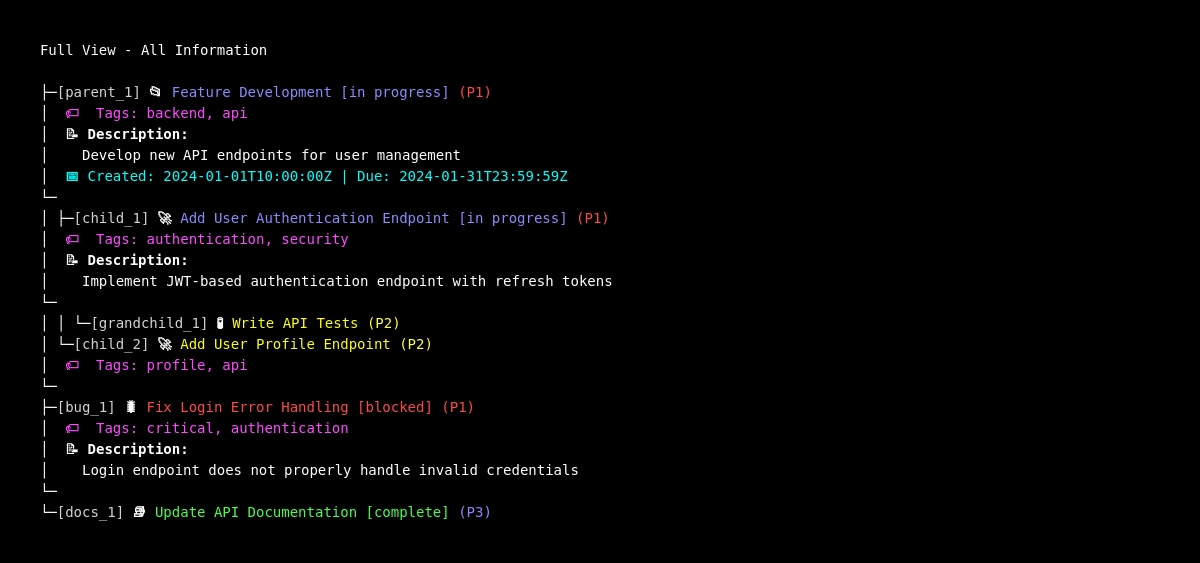
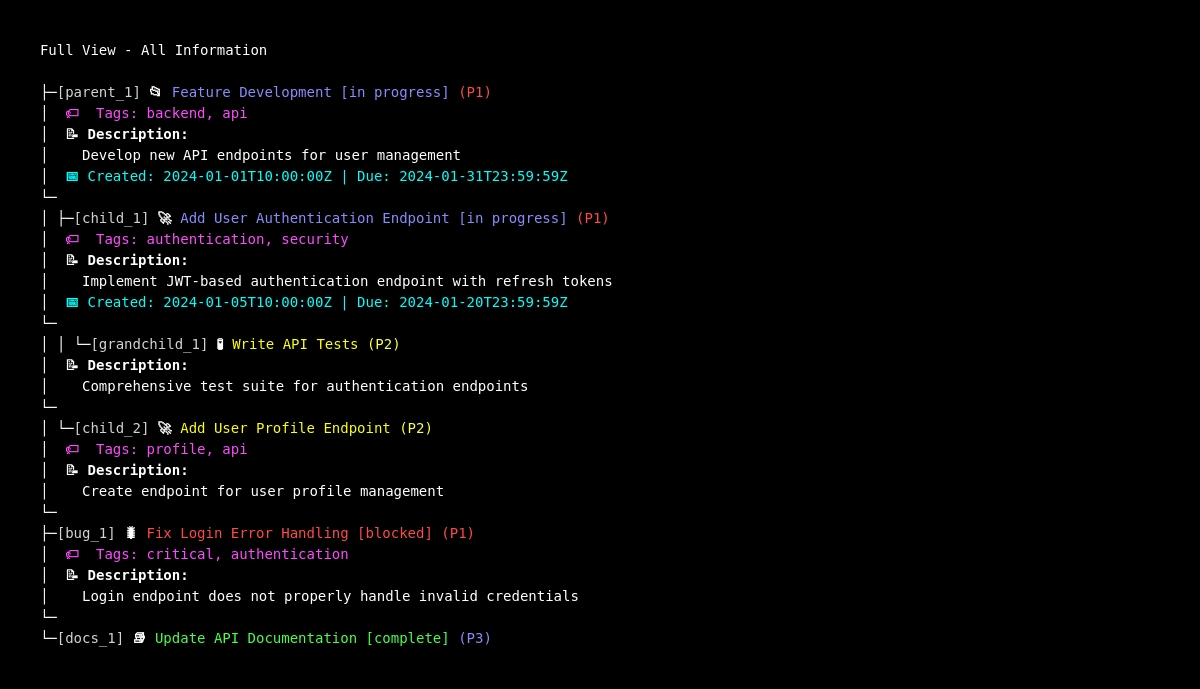
Add detail view screenshots and README documentation
Screenshot Updates:
- Generated 3 new detail view screenshots showing relationship trees
- 09_detail_view_child.jpg: Child task with parent chain, siblings, and subtasks
- 10_detail_view_grandchild.jpg: Deep hierarchy with full ancestry
- 11_detail_view_parent.jpg: Parent task with all children visible
- Regenerated existing screenshots with enhanced sample data

Script Updates:
- Updated generate_display_examples.py to include detail view examples
- Enhanced sample data with descriptions, tags, dates, assignees, dependencies
- Now generates 11 examples instead of 8

README Updates:
- Added detail_view() method to usage examples
- Listed TaskDetailFormatter in display components
- Added detail_view to view modes list
- Created new "Task Detail View with Relationship Tree" section
- Added 3 detail view screenshots with explanations
- Documented all features shown in detail view

Screenshots README Updates:
- Documented 3 new detail view screenshots
- Explained features and use cases for each
- All 11 screenshots now documented

This completes the detail view feature with full documentation,
examples, tests (147 passing), and visual screenshots.

Changed region(s): [[0.0308, 0.0604, 0.5242, 0.8757], [0.0308, 0.8757, 0.4317, 0.9361]]

diff --git a/scripts/generate_display_examples.py b/scripts/generate_display_examples.py
@@ -32,7 +32,8 @@ SAMPLE_HIERARCHICAL_TASKS = [
         'tags': [{'name': 'backend'}, {'name': 'api'}],
         'description': 'Develop new API endpoints for user management',
         'date_created': '2024-01-01T10:00:00Z',
-        'due_date': '2024-01-31T23:59:59Z'
+        'due_date': '2024-01-31T23:59:59Z',
+        'assignees': [{'username': 'alice'}]
     },
     {
         'id': 'child_1',
@@ -42,7 +43,11 @@ SAMPLE_HIERARCHICAL_TASKS = [
         'parent': 'parent_1',
         'custom_type': 'feature',
         'tags': [{'name': 'authentication'}, {'name': 'security'}],
-        'description': 'Implement JWT-based authentication endpoint with refresh tokens'
+        'description': 'Implement JWT-based authentication endpoint with refresh tokens',
+        'date_created': '2024-01-05T10:00:00Z',
+        'due_date': '2024-01-20T23:59:59Z',
+        'assignees': [{'username': 'alice'}, {'username': 'bob'}],
+        'dependencies': [{'depends_on': 'docs_1'}]
     },
     {
         'id': 'child_2',
@@ -51,7 +56,9 @@ SAMPLE_HIERARCHICAL_TASKS = [
         'priority': {'priority': '2'},
         'parent': 'parent_1',
         'custom_type': 'feature',
-        'tags': [{'name': 'profile'}, {'name': 'api'}]
+        'tags': [{'name': 'profile'}, {'name': 'api'}],
+        'description': 'Create endpoint for user profile management',
+        'assignees': [{'username': 'charlie'}]
     },
     {
         'id': 'grandchild_1',
@@ -59,7 +66,9 @@ SAMPLE_HIERARCHICAL_TASKS = [
         'status': {'status': 'to do'},
         'priority': {'priority': '2'},
         'parent': 'child_1',
-        'custom_type': 'test'
+        'custom_type': 'test',
+        'description': 'Comprehensive test suite for authentication endpoints',
+        'assignees': [{'username': 'bob'}]
     },
     {
         'id': 'bug_1',
@@ -77,7 +86,8 @@ SAMPLE_HIERARCHICAL_TASKS = [
         'status': {'status': 'complete'},
         'priority': {'priority': '3'},
         'parent': None,
-        'custom_type': 'documentation'
+        'custom_type': 'documentation',
+        'date_closed': '2024-01-03T15:30:00Z'
     }
 ]
 
@@ -212,6 +222,21 @@ def main():
         header="Flat View - Simple List"
     )
     save_output('08_flat_view.txt', output)
+
+    # 9. Detail View - Child Task with Full Context
+    child_task = next(t for t in SAMPLE_HIERARCHICAL_TASKS if t['id'] == 'child_1')
+    output = display.detail_view(child_task, SAMPLE_HIERARCHICAL_TASKS, FormatOptions.detailed())
+    save_output('09_detail_view_child.txt', output)
+
+    # 10. Detail View - Grandchild Task (Deep Hierarchy)
+    grandchild_task = next(t for t in SAMPLE_HIERARCHICAL_TASKS if t['id'] == 'grandchild_1')
+    output = display.detail_view(grandchild_task, SAMPLE_HIERARCHICAL_TASKS, FormatOptions.detailed())
+    save_output('10_detail_view_grandchild.txt', output)
+
+    # 11. Detail View - Parent Task with Children
+    parent_task = next(t for t in SAMPLE_HIERARCHICAL_TASKS if t['id'] == 'parent_1')
+    output = display.detail_view(parent_task, SAMPLE_HIERARCHICAL_TASKS, FormatOptions.detailed())
+    save_output('11_detail_view_parent.txt', output)
 
     print("\n✅ All examples generated in 'outputs/' directory")
 

diff --git a/README.md b/README.md
@@ -263,6 +263,20 @@ print(stats)
 #   In Progress: 8
 #   Blocked: 1
 #   To Do: 8
+
+# Detail View - Show task with full relationship context
+task = client.get_task("task_id")
+all_tasks = client.get_list_tasks("list_id")
+detail_output = display.detail_view(task, all_tasks, FormatOptions.detailed())
+print(detail_output)
+
+# Example output shows:
+# - Parent chain (grandparent > parent)
+# - Current task (highlighted with full details)
+# - Sibling tasks (same parent)
+# - Child tasks/subtasks (in tree view)
+# - Dependencies
+# - Full task details (description, tags, dates, assignees, etc.)
 ```
 
 **Display Components:**
@@ -271,6 +285,7 @@ print(stats)
 - **RichTaskFormatter**: Enhanced task formatting with emojis, colors, and detailed information
 - **TaskHierarchyFormatter**: Organize tasks by parent-child relationships
 - **ContainerHierarchyFormatter**: Organize tasks by workspace/space/folder/list containers
+- **TaskDetailFormatter**: Comprehensive single-task view with relationship tree
 - **TreeFormatter**: Low-level tree rendering with box-drawing characters (├─, └─, │)
 - **TaskFilter**: Filter tasks by status, priority, tags, assignee, dates, and custom criteria
 
@@ -279,6 +294,7 @@ print(stats)
 - `container_view`: Organized by workspace → space → folder → list
 - `flat_view`: Simple list display
 - `filtered_view`: Apply filters and display in any view mode
+- `detail_view`: Comprehensive single task with relationship context
 
 **Features:**
 - Beautiful tree structures with Unicode box-drawing characters
@@ -308,7 +324,30 @@ Visual examples of the display components in action:
 ![Detailed View](screenshots/03_detailed_view.jpg)
 *Comprehensive task information including descriptions and relationships*
 
-#### All View Modes
+#### Task Detail View with Relationship Tree (NEW! ✨)
+
+The detail view shows a single task with its complete hierarchical context:
+
+![Detail View - Child Task](screenshots/09_detail_view_child.jpg)
+*Child task showing parent chain, siblings, and subtasks with full details*
+
+**What's shown in detail view:**
+- 📊 **Parent Chain**: Full ancestry from root to current task
+- 👉 **Current Task**: Highlighted with complete details (description, tags, dates, assignees)
+- 👥 **Siblings**: Other tasks with the same parent
+- 📂 **Subtasks**: Child tasks in recursive tree view (up to 3 levels deep)
+- 🔗 **Dependencies**: Blocking/waiting tasks
+- ☑ **Checklists**: With completion status
+- 💬 **Comments**: User discussions
+- 📎 **Attachments**: Files and links
+- ⏱ **Time Tracking**: Estimates and actual time spent
+
+| Deep Hierarchy | Parent View |
+|----------------|-------------|
+| ![Grandchild](screenshots/10_detail_view_grandchild.jpg) | ![Parent](screenshots/11_detail_view_parent.jpg) |
+| Task deep in hierarchy showing full context | Parent task with all children displayed |
+
+#### Other View Modes
 
 | Minimal View | Filtered View | Statistics |
 |--------------|---------------|------------|

diff --git a/screenshots/README.md b/screenshots/README.md
@@ -46,6 +46,38 @@ Generated on: 2025-11-09
 - **Features**: Simple list without hierarchy
 - **Use Case**: Linear task list
 
+### 09_detail_view_child.jpg (NEW! ✨)
+- **View Mode**: Task Detail View
+- **Context**: Child task in middle of hierarchy
+- **Features**:
+  - Parent chain showing ancestry
+  - Current task highlighted with full details
+  - Sibling tasks list
+  - Subtasks in recursive tree view
+  - Dependencies display
+  - Complete task metadata (description, tags, dates, assignees)
+- **Use Case**: Comprehensive single-task view with relationship context
+
+### 10_detail_view_grandchild.jpg (NEW! ✨)
+- **View Mode**: Task Detail View
+- **Context**: Deep task in 3-level hierarchy
+- **Features**:
+  - Full parent chain (grandparent → parent)
+  - Current task details
+  - All ancestors shown with status
+  - Perfect for understanding task position in complex hierarchies
+- **Use Case**: Deep hierarchy navigation and context understanding
+
+### 11_detail_view_parent.jpg (NEW! ✨)
+- **View Mode**: Task Detail View
+- **Context**: Parent task with multiple children
+- **Features**:
+  - All subtasks displayed in tree view
+  - Recursive child tree (up to 3 levels)
+  - Task completion overview
+  - Project-level task view
+- **Use Case**: Parent task overview with all subtasks visible
+
 ## Features Demonstrated
 
 All screenshots show:
